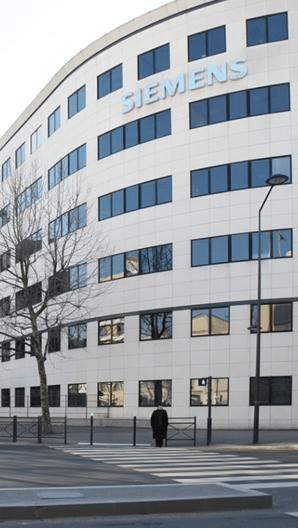
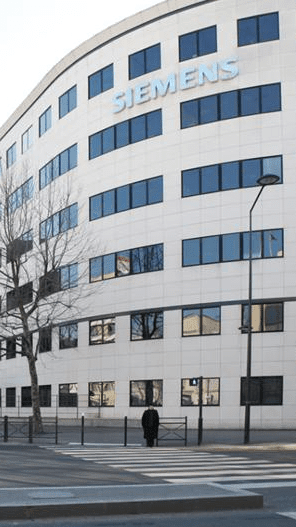
career-1 background test

diff --git a/career-1.css b/career-1.css
@@ -1,9 +1,19 @@
-body {
-  background-image: url("https://res.cloudinary.com/dvpcjyb48/image/upload/v1612128985/Siemens%20-%20Saint-Denis.png");
+.background {
+  background-image: url("https://res.cloudinary.com/dvpcjyb48/image/upload/v1612297564/Siemens%20-%20Saint-Denis.png");
+  background-repeat: no-repeat;
+  background-position: center;
+  background-size: cover;
+  position: fixed;
+  top: 0px;
+  left: 0px;
+  height: 100vh;
+  width: 100%;
+  z-index: -1;
+  filter: brightness(0.2);
 }
 
 @media (max-width: 480px) {
-  body {
-    background-image: url("https://res.cloudinary.com/dvpcjyb48/image/upload/v1612295201/Siemens_mobile_nkklbh.png");
+  .background {
+    background-image: url("https://res.cloudinary.com/dvpcjyb48/image/upload/v1612297600/Siemens_mobile_mycf6i.png");
   }
 }

diff --git a/career.css b/career.css
@@ -1,9 +1,10 @@
-body {
-  background-position: center center;
-  background-repeat: no-repeat;
-  background-attachment: fixed;
-  background-size: cover;
-  backdrop-filter: brightness(20%);
+body::before {
+  content: "";
+  position: fixed;
+  top: 0px;
+  left: 0px;
+  height: 100vh;
+  filter: grayscale(20%);
 }
 .container {
   height: calc(100vh - 80px - 100px); /*80px = navBar 100px = footer*/

diff --git a/index.css b/index.css
@@ -4,7 +4,6 @@ body {
   background-repeat: no-repeat;
   background-attachment: fixed;
   background-size: cover;
-  backdrop-filter: brightness(60%);
 }
 .container {
   height: calc(100vh - 80px); /*80px = navBar*/

diff --git a/career-1.html b/career-1.html
@@ -11,6 +11,7 @@
 </head>
 
 <body>
+  <div class="background"></div>
   <nav id="sideNav" class="sideNav">
     <ul>
       <li><a href="./index.html">Accueil</a></li>
